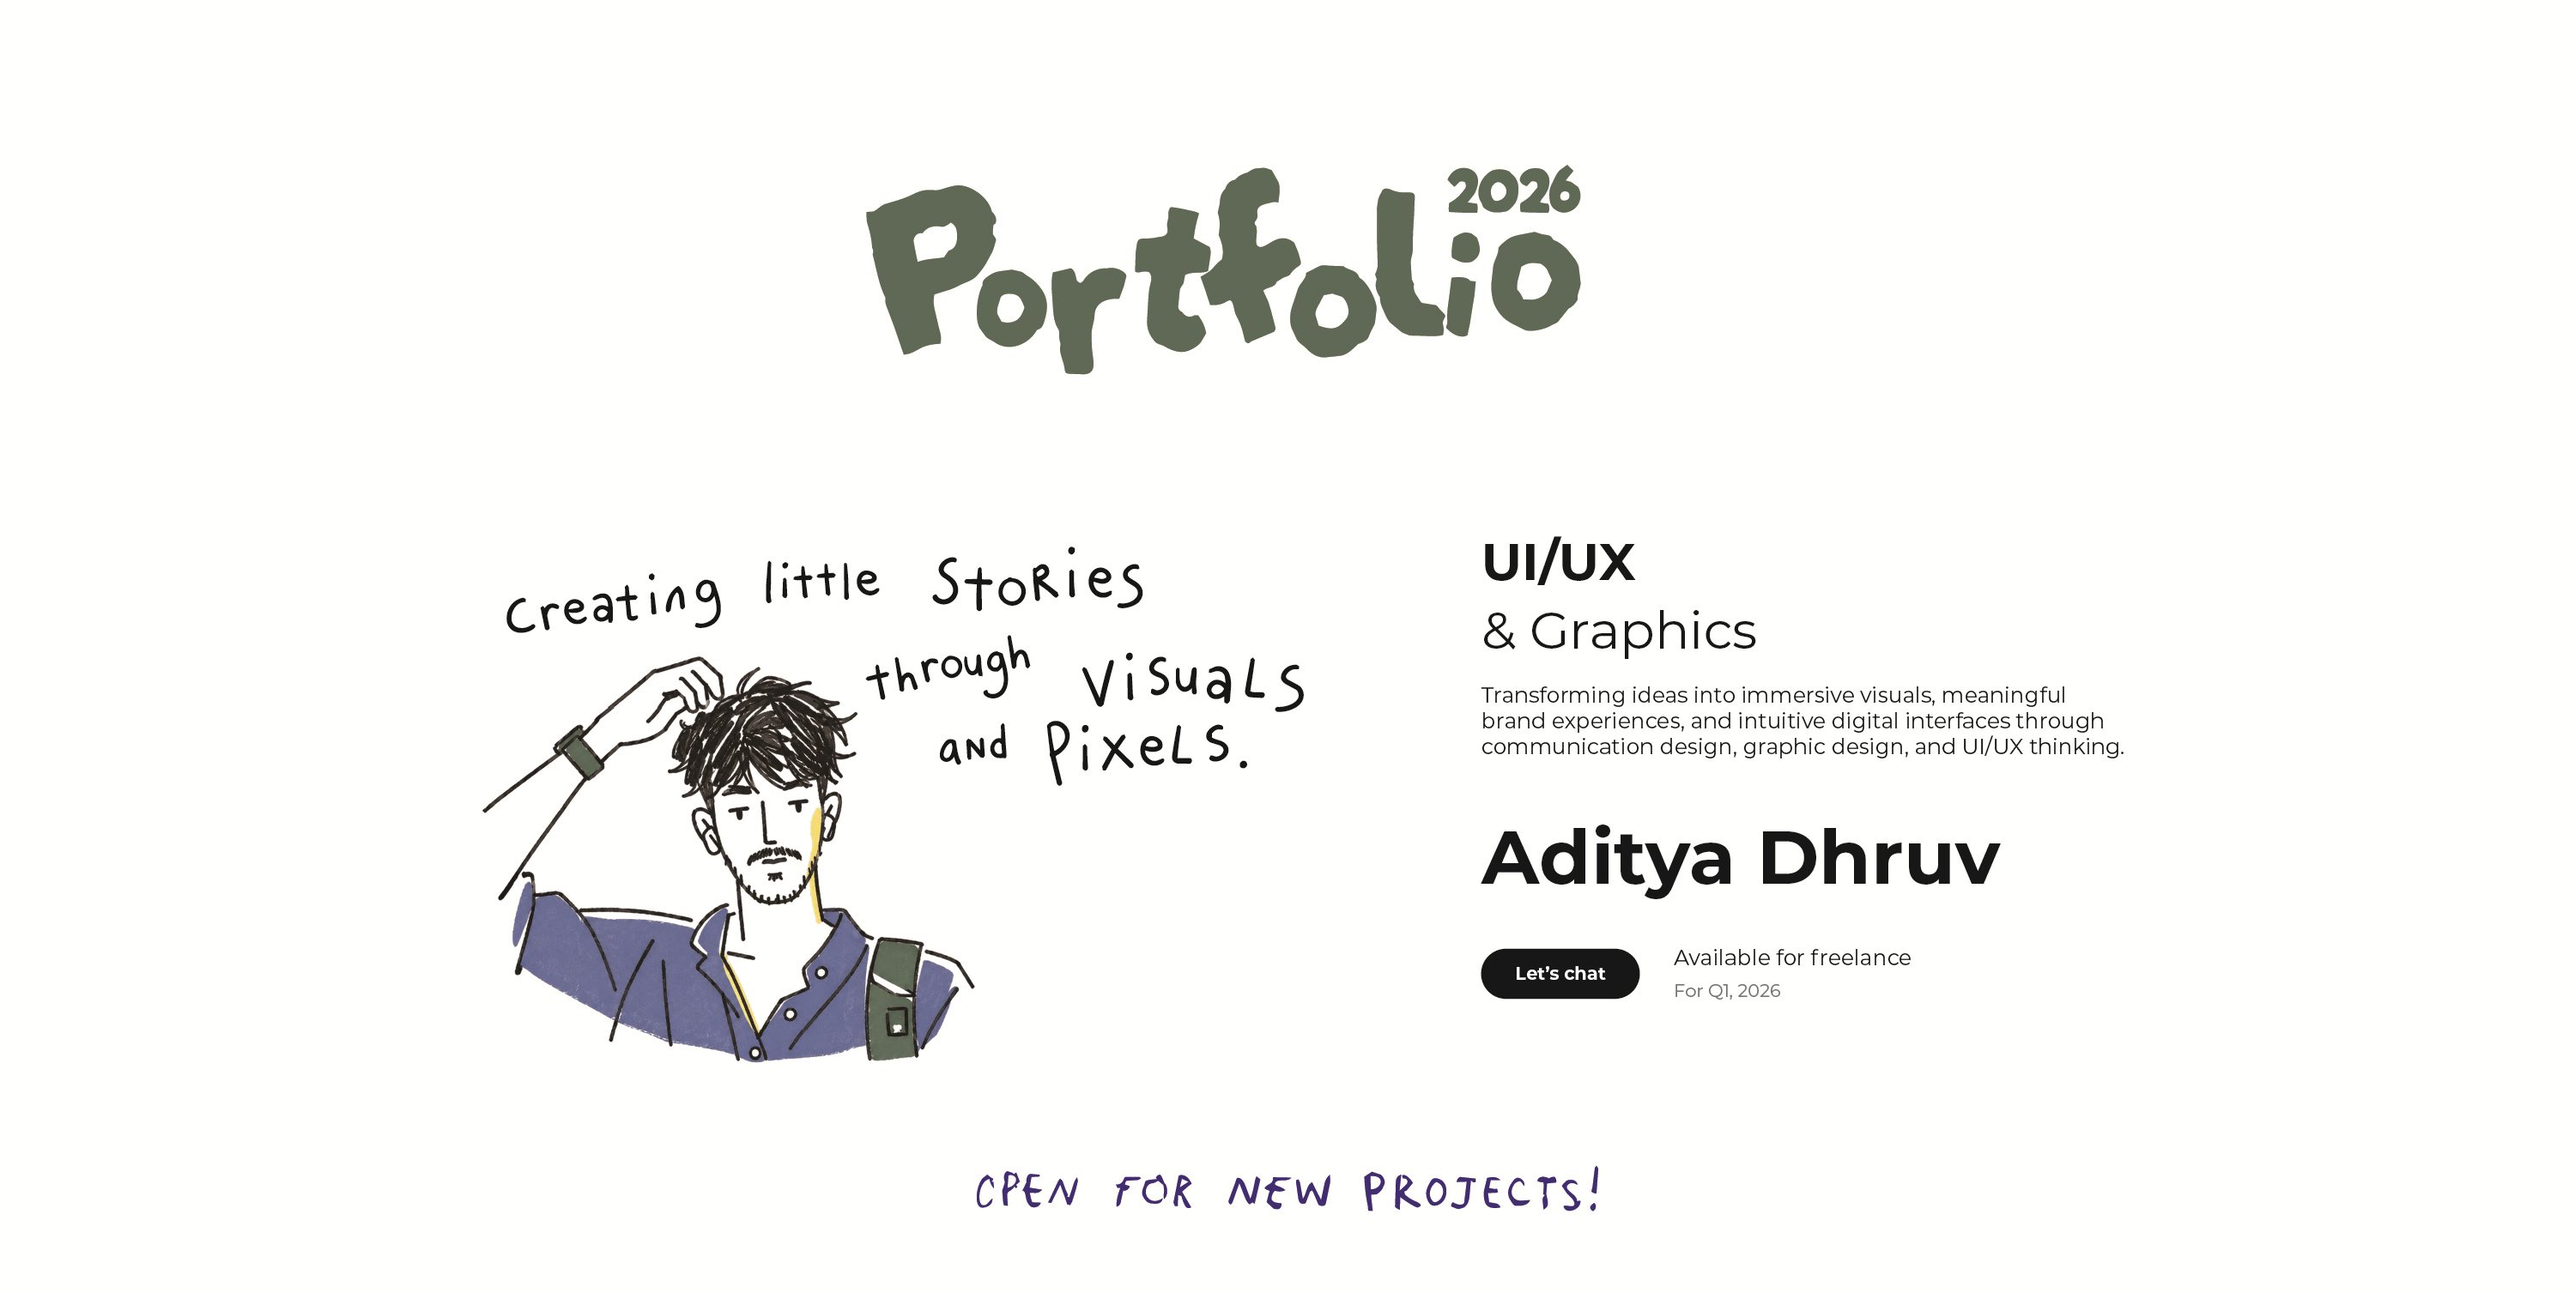
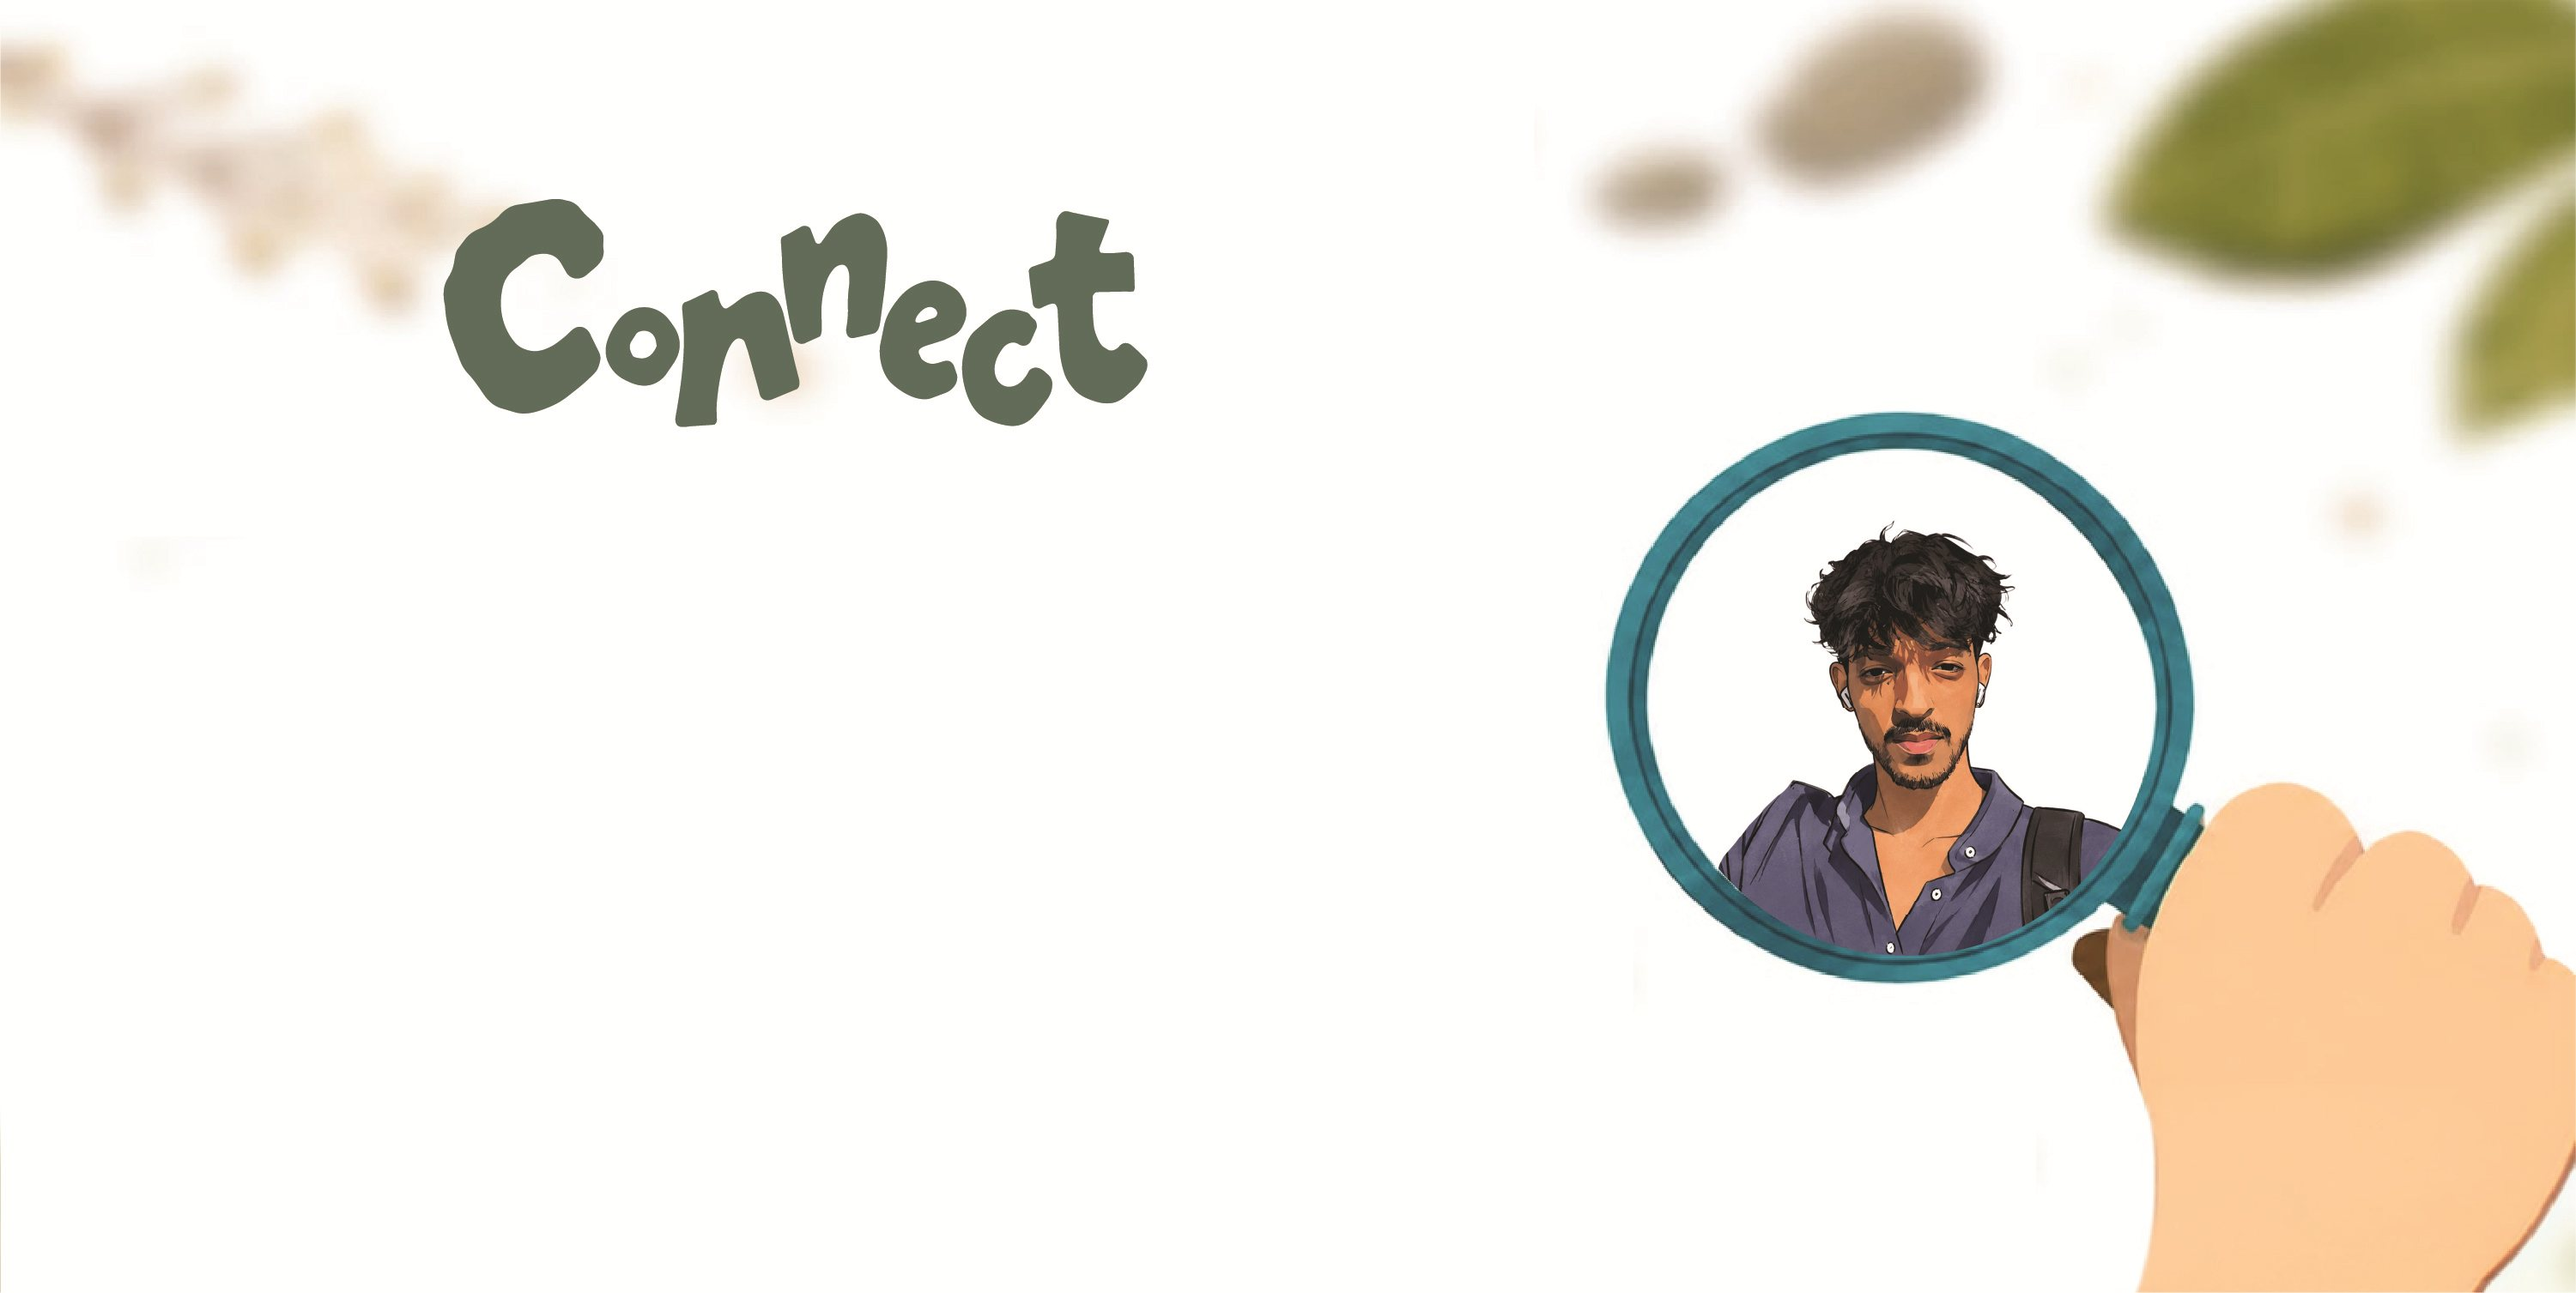
Use the latest connect page artwork

diff --git a/index.html b/index.html
@@ -760,7 +760,7 @@
 
   <!-- ================= CONNECT (closing page, the user's own artwork shown as-is) ================= -->
   <section class="connect" id="connect">
-    <img src="assets/connect.jpg" width="3000" height="1507" loading="lazy" alt="Portfolio 2026. Creating little stories through visuals and pixels. UI/UX and Graphics, Aditya Dhruv, available for freelance. Open for new projects!">
+    <img src="assets/connect.jpg?v=2" width="3001" height="1507" loading="lazy" alt="Connect: a hand holding a magnifying glass over a portrait of Aditya">
   </section>
 
   <!-- in-site viewer: any link with data-pdf="file.pdf" opens here -->
